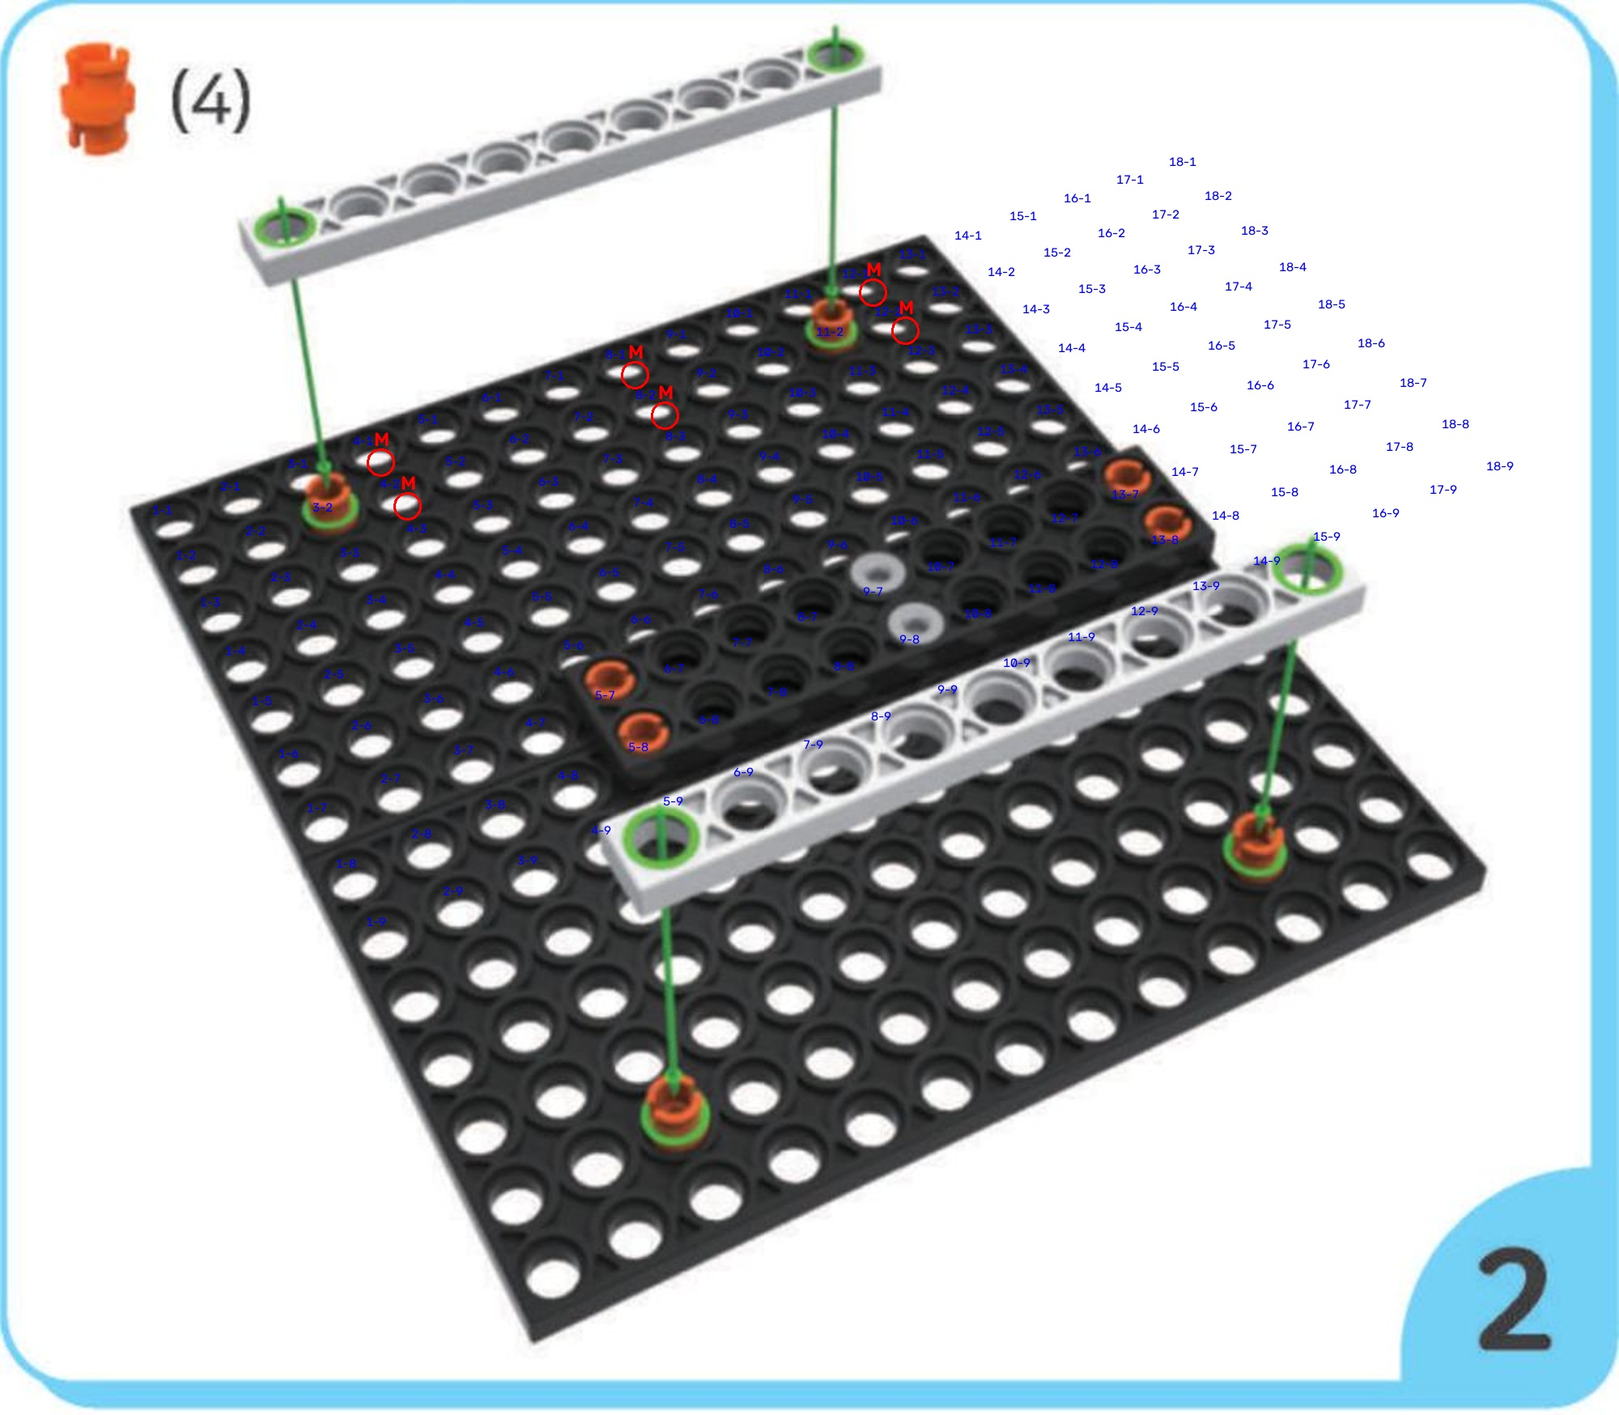
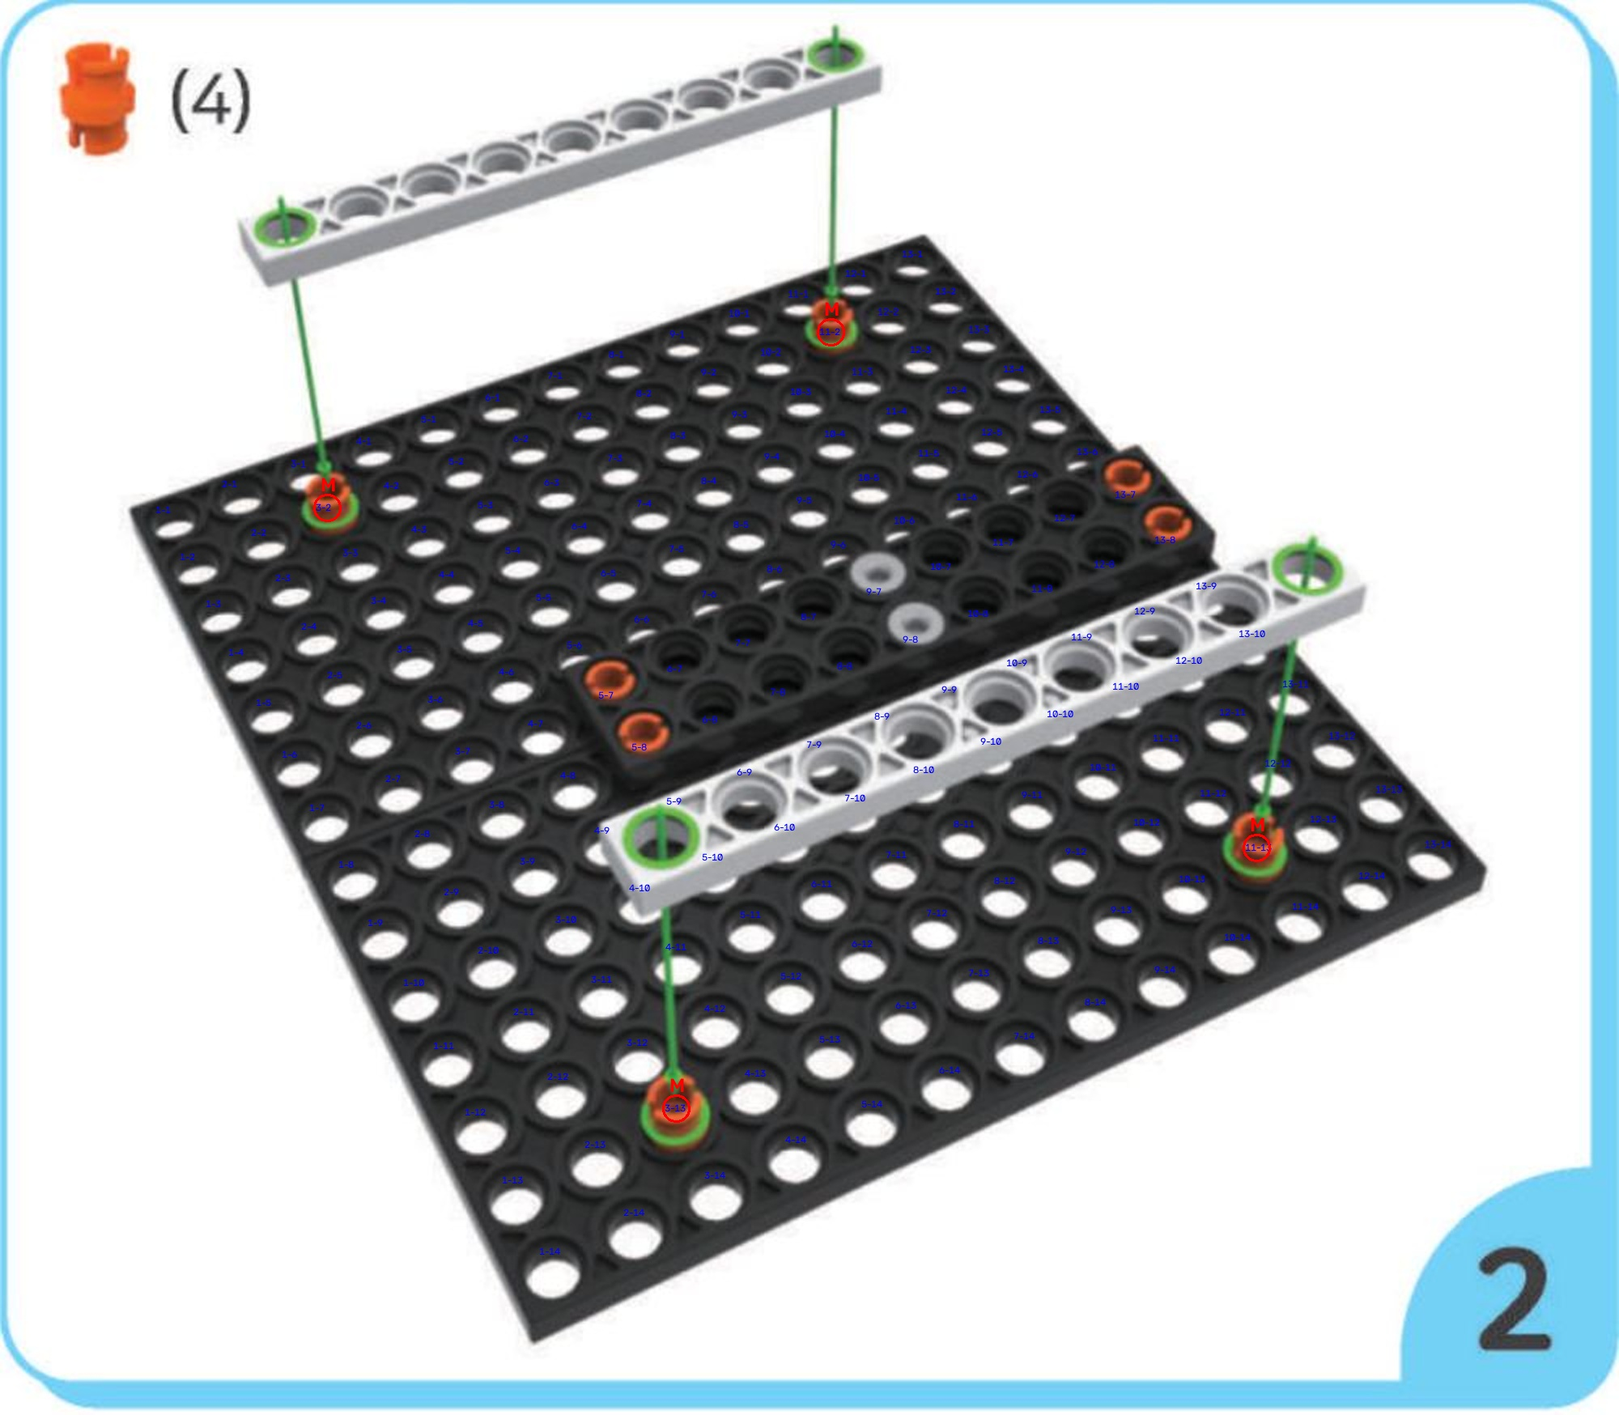
볼링머신 3~4번, 1·3번 너트·볼트 위치 수정

diff --git a/scripts/assembly-tools/bowling_entry.js b/scripts/assembly-tools/bowling_entry.js
@@ -7,7 +7,7 @@
       camera: {"target": [60, 20, 0], "radius": 380, "theta": 0.9, "phi": 1.0},
       listNote: "만드는 중 — 단계가 끝나기 전까지 LIST 개수는 안 맞는 것이 정상",
       guideMode: "mates",
-      lift: {"1": 50.0, "3": 55.0},
+      lift: {"1": 50.0, "3": 55.0, "4": 5.0, "5": 5.0, "6": 5.0, "7": 5.0, "8": 5.0, "9": 5.0, "10": 5.0, "11": 5.0, "12": 5.0, "13": 5.0, "14": 5.0, "15": 5.0, "16": 5.0, "17": 5.0, "18": 5.0, "19": 5.0, "20": 5.0, "21": 5.0, "22": 5.0, "23": 5.0, "24": 5.0, "25": 5.0, "26": 5.0, "27": 5.0, "28": 5.0, "29": 5.0, "30": 5.0, "31": 5.0, "32": 5.0, "33": 5.0, "34": 5.0, "35": 5.0, "36": 5.0, "37": 5.0},
       steps: [
         { note: "[교재 1] 713프레임 둘을 이어 붙이고 이음매 위에 29프레임을 얹어 리벳 넷·볼트 둘·너트 둘로 이어요.\n━ 작업 점검 ━\n☑ 책 그림 격자(수평선·회전·격자 점) 만듦\n☑ 읽기 표(면·링·부품) 적음\n☑ 읽기 표의 부품 = 모델의 부품 (713프레임 2, 리벳 4, 29프레임 1, 8볼트 2, 너트 2)\n☑ 카메라 방향 파악(가까운 쪽·화면 오른쪽·위가 로봇의 어느 쪽인지 읽기 표 '방향') (눈으로)\n☑ 쓴 부품 합계 ≤ 교재 LIST\n☑ 부품 방향·제자리 판정(읽기 표 '부품방향')\n☑ 리벳 결합 프레임이 딱 붙음(틈 0)\n☑ 볼트·너트 머리·몸이 프레임 면 밖으로 안 나옴\n☑ 앞·뒤 번호 그림·완성 사진(00)과 같이 읽음(읽기 표 '대조') (눈으로)\n☑ 화면 확대 확인 (비교 증거 있음) (눈으로)\n☑ 책 그림과 나란히 비교(칸 수 대조) (비교 증거 있음) (눈으로)\n☑ 카메라 책과 대조 (비교 증거 있음) (눈으로)\n☑ 카메라가 짐작(guess)이 아님 — 책 그림에서 가까운 쪽·오른쪽·위를 읽고 정한 값(camSrc eye) (비교 증거 있음) (눈으로)\n▣ 사용 부품: 713프레임 2, 29프레임 1, 리벳 4, 8볼트 2, 너트 2", cam: {"theta": -0.49, "phi": 1.03}, camSrc: "eye", slot: 1, parts: [
           { n: "713프레임", p: [-20.0, 2.5, -35.0], r: [0.0, 0.0, 0.0] },
@@ -19,8 +19,8 @@
           { n: "29프레임", p: [0.0, 7.5, 0.0], r: [0.0, 0.0, 0.0], recv: true, dir: [0.0, 1.0, 0.0], marks: [[-40.0, 9.5, -5.0], [-40.0, 9.5, 5.0], [40.0, 9.5, -5.0], [40.0, 9.5, 5.0]], hover: 50 },
           { n: "8볼트", p: [0.0, 4.9, -5.0], r: [180.0, 0.0, 0.0], dir: [0.0, -1.0, 0.0], marks: [[0.0, 0.0, -5.0]], hover: 45 },
           { n: "8볼트", p: [0.0, 4.9, 5.0], r: [180.0, 0.0, 0.0], dir: [0.0, -1.0, 0.0], marks: [[0.0, 0.0, 5.0]], hover: 45 },
-          { n: "너트", p: [0.0, 8.0, -5.0], r: [180.0, 0.0, 0.0], dir: [0.0, 1.0, 0.0], marks: [[0.0, 10.0, -5.0]], hover: 40 },
-          { n: "너트", p: [0.0, 8.0, 5.0], r: [180.0, 0.0, 0.0], dir: [0.0, 1.0, 0.0], marks: [[0.0, 10.0, 5.0]], hover: 40 },
+          { n: "너트", p: [0.0, 8.0, -5.0], r: [180.0, 0.0, 0.0], dir: [0.0, 1.0, 0.0], marks: [[0.0, 10.0, -5.0]], hover: 90 },
+          { n: "너트", p: [0.0, 8.0, 5.0], r: [180.0, 0.0, 0.0], dir: [0.0, 1.0, 0.0], marks: [[0.0, 10.0, 5.0]], hover: 90 },
         ] },
         { note: "[교재 2] 바닥 앞·뒤 가장자리 쪽(줄2·줄13)에 흰 19프레임 막대 둘을 리벳 둘씩(칸3·11)으로 이어요.\n▣ 사용 부품: 19프레임 2, 리벳 4", cam: {"theta": -0.47, "phi": 0.73}, camSrc: "eye", slot: 1, parts: [
           { n: "리벳", p: [-60.0, 5.0, -55.0], r: [0.0, 0.0, 0.0], dir: [0.0, 1.0, 0.0], marks: [[-60.0, 5.0, -55.0]], hover: 25 },
@@ -31,15 +31,25 @@
           { n: "19프레임", p: [-20.0, 7.5, 55.0], r: [0.0, 0.0, 0.0], recv: true, dir: [0.0, 1.0, 0.0], marks: [[-60.0, 9.5, 55.0], [20.0, 9.5, 55.0]], hover: 50 },
         ] },
         { note: "[교재 3] 1~2번 바닥을 뒤집어(가로축) 흰 59프레임을 아래 면 왼쪽 끝에 리벳 둘·볼트 둘·너트 둘로 붙여요.\n▣ 사용 부품: 59프레임 1, 리벳 2, 8볼트 2, 너트 2", cam: {"theta": -0.72, "phi": 1.13}, camSrc: "eye", slot: 1, moveMade: {"1:0": {"p": [-20.0, 2.5, 35.0], "r": [180.0, 0.0, 0.0], "dir": [0.0, 1.0, 0.0], "hover": 50, "marks": [[-80.0, 0.0, 15.0], [-70.0, 0.0, 15.0]]}, "1:1": {"p": [-20.0, 2.5, -35.0], "r": [180.0, 0.0, 0.0], "dir": [0.0, 1.0, 0.0], "hover": 50, "marks": [[-80.0, 0.0, -25.0], [-70.0, 0.0, -25.0]]}, "1:2": {"p": [-40.0, 0.0, 5.0], "r": [180.0, 0.0, 0.0], "dir": [0.0, 1.0, 0.0], "hover": 50}, "1:3": {"p": [40.0, 0.0, 5.0], "r": [180.0, 0.0, 0.0], "dir": [0.0, 1.0, 0.0], "hover": 50}, "1:4": {"p": [-40.0, 0.0, -5.0], "r": [180.0, 0.0, 0.0], "dir": [0.0, 1.0, 0.0], "hover": 50}, "1:5": {"p": [40.0, 0.0, -5.0], "r": [180.0, 0.0, 0.0], "dir": [0.0, 1.0, 0.0], "hover": 50}, "1:6": {"p": [0.0, -2.5, 0.0], "r": [180.0, 0.0, 0.0], "dir": [0.0, 1.0, 0.0], "hover": 50}, "1:7": {"p": [0.0, 0.1, 5.0], "r": [0.0, 0.0, 0.0], "dir": [0.0, 1.0, 0.0], "hover": 50}, "1:8": {"p": [0.0, 0.1, -5.0], "r": [0.0, 0.0, 0.0], "dir": [0.0, 1.0, 0.0], "hover": 50}, "1:9": {"p": [0.0, -3.0, 5.0], "r": [0.0, 0.0, 0.0], "dir": [0.0, 1.0, 0.0], "hover": 50}, "1:10": {"p": [0.0, -3.0, -5.0], "r": [0.0, 0.0, 0.0], "dir": [0.0, 1.0, 0.0], "hover": 50}, "2:0": {"p": [-60.0, 0.0, 55.0], "r": [180.0, 0.0, 0.0], "dir": [0.0, 1.0, 0.0], "hover": 50}, "2:1": {"p": [20.0, 0.0, 55.0], "r": [180.0, 0.0, 0.0], "dir": [0.0, 1.0, 0.0], "hover": 50}, "2:2": {"p": [-20.0, -2.5, 55.0], "r": [180.0, 0.0, 0.0], "dir": [0.0, 1.0, 0.0], "hover": 50}, "2:3": {"p": [-60.0, 0.0, -55.0], "r": [180.0, 0.0, 0.0], "dir": [0.0, 1.0, 0.0], "hover": 50}, "2:4": {"p": [20.0, 0.0, -55.0], "r": [180.0, 0.0, 0.0], "dir": [0.0, 1.0, 0.0], "hover": 50}, "2:5": {"p": [-20.0, -2.5, -55.0], "r": [180.0, 0.0, 0.0], "dir": [0.0, 1.0, 0.0], "hover": 50}}, parts: [
-          { n: "59프레임", p: [-110.0, -2.5, 75.0], r: [0.0, 0.0, 0.0] },
-          { n: "리벳", p: [-80.0, 0.0, 55.0], r: [0.0, 0.0, 0.0], dir: [0.0, 1.0, 0.0], marks: [[-80.0, 0.0, 55.0]], hover: 25 },
-          { n: "리벳", p: [-80.0, 0.0, 95.0], r: [0.0, 0.0, 0.0], dir: [0.0, 1.0, 0.0], marks: [[-80.0, 0.0, 95.0]], hover: 25 },
-          { n: "8볼트", p: [-70.0, 0.1, -25.0], r: [0.0, 0.0, 0.0], dir: [0.0, 1.0, 0.0], marks: [[-70.0, 5.0, -25.0]], hover: 45 },
-          { n: "8볼트", p: [-70.0, 0.1, 15.0], r: [0.0, 0.0, 0.0], dir: [0.0, 1.0, 0.0], marks: [[-70.0, 5.0, 15.0]], hover: 45 },
-          { n: "너트", p: [-70.0, -3.0, 55.0], r: [0.0, 0.0, 0.0], dir: [0.0, -1.0, 0.0], marks: [[-70.0, -5.0, 55.0]], hover: 40 },
-          { n: "너트", p: [-70.0, -3.0, 95.0], r: [0.0, 0.0, 0.0], dir: [0.0, -1.0, 0.0], marks: [[-70.0, -5.0, 95.0]], hover: 40 },
+          { n: "59프레임", p: [-110.0, -2.5, -5.0], r: [0.0, 0.0, 0.0] },
+          { n: "리벳", p: [-80.0, 0.0, -25.0], r: [0.0, 0.0, 0.0], dir: [0.0, 1.0, 0.0], marks: [[-80.0, 0.0, -25.0]], hover: 25 },
+          { n: "리벳", p: [-80.0, 0.0, 15.0], r: [0.0, 0.0, 0.0], dir: [0.0, 1.0, 0.0], marks: [[-80.0, 0.0, 15.0]], hover: 25 },
+          { n: "8볼트", p: [-70.0, 0.1, -25.0], r: [0.0, 0.0, 0.0], dir: [0.0, 1.0, 0.0], marks: [[-70.0, 5.0, -25.0]], hover: 100 },
+          { n: "8볼트", p: [-70.0, 0.1, 15.0], r: [0.0, 0.0, 0.0], dir: [0.0, 1.0, 0.0], marks: [[-70.0, 5.0, 15.0]], hover: 100 },
+          { n: "너트", p: [-70.0, -3.0, -25.0], r: [0.0, 0.0, 0.0], dir: [0.0, -1.0, 0.0], marks: [[-70.0, -5.0, -25.0]], hover: 40 },
+          { n: "너트", p: [-70.0, -3.0, 15.0], r: [0.0, 0.0, 0.0], dir: [0.0, -1.0, 0.0], marks: [[-70.0, -5.0, 15.0]], hover: 40 },
         ] },
-        { note: "[교재 4] (작성 전) 교재 101쪽 — 번호만 등록한 뼈대. 번호 작업 때 채운다.\n▣ 사용 부품: 39프레임 2, 3단블록 6, 2단블록 2", cam: {"theta": -0.79, "phi": 0.95}, camSrc: "guess", noPart: true, slot: 2, history: "📦 713프레임 세트(1~3번)를 창고 1에 두고, 창고 2에서 검은 판 둘+블록 세트(4~5번)를 새로 시작", parts: [
+        { note: "[교재 4] 검은 39프레임 둘에 블록 넷씩을 돌기가 아래로 가게 꽂아요(3단블록 3·2단블록 1).\n▣ 사용 부품: 39프레임 2, 3단블록 6, 2단블록 2", cam: {"theta": -0.58, "phi": 0.83}, camSrc: "eye", slot: 2, history: "📦 713프레임 세트(1~3번)를 창고 1에 두고, 창고 2에서 검은 판 둘+블록 세트(4~5번)를 새로 시작", hideMade: {"1": "바닥(1~3번)", "2": "바닥(1~3번)", "3": "바닥(1~3번)"}, parts: [
+          { n: "39프레임", p: [0.0, 2.5, -40.0], r: [0.0, 0.0, 0.0] },
+          { n: "3단블록", p: [-40.0, 10.0, -40.0], r: [90.0, -90.0, 0.0], dir: [0.0, 1.0, 0.0], marks: [[-40.0, 5.0, -50.0], [-40.0, 5.0, -40.0], [-40.0, 5.0, -30.0]], hover: 44 },
+          { n: "3단블록", p: [-20.0, 10.0, -40.0], r: [90.0, -90.0, 0.0], dir: [0.0, 1.0, 0.0], marks: [[-20.0, 5.0, -50.0], [-20.0, 5.0, -40.0], [-20.0, 5.0, -30.0]], hover: 38 },
+          { n: "2단블록", p: [34.4, 10.0, -50.0], r: [90.0, 0.0, 0.0], dir: [0.0, 1.0, 0.0], marks: [[30.0, 5.0, -50.0], [40.0, 5.0, -50.0]], hover: 44 },
+          { n: "3단블록", p: [40.0, 20.0, -30.0], r: [-90.0, 0.0, 90.0], dir: [0.0, 1.0, 0.0], marks: [[40.0, 5.0, -30.0]], hover: 32 },
+          { n: "39프레임", p: [0.0, 2.5, 40.0], r: [0.0, 0.0, 0.0] },
+          { n: "3단블록", p: [-40.0, 10.0, 40.0], r: [90.0, -90.0, 0.0], dir: [0.0, 1.0, 0.0], marks: [[-40.0, 5.0, 30.0], [-40.0, 5.0, 40.0], [-40.0, 5.0, 50.0]], hover: 44 },
+          { n: "3단블록", p: [-20.0, 10.0, 40.0], r: [90.0, -90.0, 0.0], dir: [0.0, 1.0, 0.0], marks: [[-20.0, 5.0, 30.0], [-20.0, 5.0, 40.0], [-20.0, 5.0, 50.0]], hover: 38 },
+          { n: "2단블록", p: [34.4, 10.0, 30.0], r: [90.0, 0.0, 0.0], dir: [0.0, 1.0, 0.0], marks: [[30.0, 5.0, 30.0], [40.0, 5.0, 30.0]], hover: 44 },
+          { n: "3단블록", p: [40.0, 20.0, 50.0], r: [-90.0, 0.0, 90.0], dir: [0.0, 1.0, 0.0], marks: [[40.0, 5.0, 50.0]], hover: 32 },
         ] },
         { note: "[교재 5] (작성 전) 교재 101쪽 — 번호만 등록한 뼈대. 번호 작업 때 채운다.\n▣ 사용 부품: 39프레임 2", cam: {"theta": -0.79, "phi": 0.95}, camSrc: "guess", noPart: true, slot: 2, parts: [
         ] },

diff --git a/public/design-assemblies.js b/public/design-assemblies.js
@@ -4121,7 +4121,7 @@ window.IVS_ASSEMBLIES = [
       camera: {"target": [60, 20, 0], "radius": 380, "theta": 0.9, "phi": 1.0},
       listNote: "만드는 중 — 단계가 끝나기 전까지 LIST 개수는 안 맞는 것이 정상",
       guideMode: "mates",
-      lift: {"1": 50.0},
+      lift: {"1": 50.0, "3": 55.0, "4": 5.0, "5": 5.0, "6": 5.0, "7": 5.0, "8": 5.0, "9": 5.0, "10": 5.0, "11": 5.0, "12": 5.0, "13": 5.0, "14": 5.0, "15": 5.0, "16": 5.0, "17": 5.0, "18": 5.0, "19": 5.0, "20": 5.0, "21": 5.0, "22": 5.0, "23": 5.0, "24": 5.0, "25": 5.0, "26": 5.0, "27": 5.0, "28": 5.0, "29": 5.0, "30": 5.0, "31": 5.0, "32": 5.0, "33": 5.0, "34": 5.0, "35": 5.0, "36": 5.0, "37": 5.0},
       steps: [
         { note: "[교재 1] 713프레임 둘을 이어 붙이고 이음매 위에 29프레임을 얹어 리벳 넷·볼트 둘·너트 둘로 이어요.\n━ 작업 점검 ━\n☑ 책 그림 격자(수평선·회전·격자 점) 만듦\n☑ 읽기 표(면·링·부품) 적음\n☑ 읽기 표의 부품 = 모델의 부품 (713프레임 2, 리벳 4, 29프레임 1, 8볼트 2, 너트 2)\n☑ 카메라 방향 파악(가까운 쪽·화면 오른쪽·위가 로봇의 어느 쪽인지 읽기 표 '방향') (눈으로)\n☑ 쓴 부품 합계 ≤ 교재 LIST\n☑ 부품 방향·제자리 판정(읽기 표 '부품방향')\n☑ 리벳 결합 프레임이 딱 붙음(틈 0)\n☑ 볼트·너트 머리·몸이 프레임 면 밖으로 안 나옴\n☑ 앞·뒤 번호 그림·완성 사진(00)과 같이 읽음(읽기 표 '대조') (눈으로)\n☑ 화면 확대 확인 (비교 증거 있음) (눈으로)\n☑ 책 그림과 나란히 비교(칸 수 대조) (비교 증거 있음) (눈으로)\n☑ 카메라 책과 대조 (비교 증거 있음) (눈으로)\n☑ 카메라가 짐작(guess)이 아님 — 책 그림에서 가까운 쪽·오른쪽·위를 읽고 정한 값(camSrc eye) (비교 증거 있음) (눈으로)\n▣ 사용 부품: 713프레임 2, 29프레임 1, 리벳 4, 8볼트 2, 너트 2", cam: {"theta": -0.49, "phi": 1.03}, camSrc: "eye", slot: 1, parts: [
           { n: "713프레임", p: [-20.0, 2.5, -35.0], r: [0.0, 0.0, 0.0] },
@@ -4133,8 +4133,8 @@ window.IVS_ASSEMBLIES = [
           { n: "29프레임", p: [0.0, 7.5, 0.0], r: [0.0, 0.0, 0.0], recv: true, dir: [0.0, 1.0, 0.0], marks: [[-40.0, 9.5, -5.0], [-40.0, 9.5, 5.0], [40.0, 9.5, -5.0], [40.0, 9.5, 5.0]], hover: 50 },
           { n: "8볼트", p: [0.0, 4.9, -5.0], r: [180.0, 0.0, 0.0], dir: [0.0, -1.0, 0.0], marks: [[0.0, 0.0, -5.0]], hover: 45 },
           { n: "8볼트", p: [0.0, 4.9, 5.0], r: [180.0, 0.0, 0.0], dir: [0.0, -1.0, 0.0], marks: [[0.0, 0.0, 5.0]], hover: 45 },
-          { n: "너트", p: [0.0, 8.0, -5.0], r: [180.0, 0.0, 0.0], dir: [0.0, 1.0, 0.0], marks: [[0.0, 10.0, -5.0]], hover: 40 },
-          { n: "너트", p: [0.0, 8.0, 5.0], r: [180.0, 0.0, 0.0], dir: [0.0, 1.0, 0.0], marks: [[0.0, 10.0, 5.0]], hover: 40 },
+          { n: "너트", p: [0.0, 8.0, -5.0], r: [180.0, 0.0, 0.0], dir: [0.0, 1.0, 0.0], marks: [[0.0, 10.0, -5.0]], hover: 90 },
+          { n: "너트", p: [0.0, 8.0, 5.0], r: [180.0, 0.0, 0.0], dir: [0.0, 1.0, 0.0], marks: [[0.0, 10.0, 5.0]], hover: 90 },
         ] },
         { note: "[교재 2] 바닥 앞·뒤 가장자리 쪽(줄2·줄13)에 흰 19프레임 막대 둘을 리벳 둘씩(칸3·11)으로 이어요.\n▣ 사용 부품: 19프레임 2, 리벳 4", cam: {"theta": -0.47, "phi": 0.73}, camSrc: "eye", slot: 1, parts: [
           { n: "리벳", p: [-60.0, 5.0, -55.0], r: [0.0, 0.0, 0.0], dir: [0.0, 1.0, 0.0], marks: [[-60.0, 5.0, -55.0]], hover: 25 },
@@ -4144,9 +4144,26 @@ window.IVS_ASSEMBLIES = [
           { n: "리벳", p: [20.0, 5.0, 55.0], r: [0.0, 0.0, 0.0], dir: [0.0, 1.0, 0.0], marks: [[20.0, 5.0, 55.0]], hover: 25 },
           { n: "19프레임", p: [-20.0, 7.5, 55.0], r: [0.0, 0.0, 0.0], recv: true, dir: [0.0, 1.0, 0.0], marks: [[-60.0, 9.5, 55.0], [20.0, 9.5, 55.0]], hover: 50 },
         ] },
-        { note: "[교재 3] (작성 전) 교재 101쪽 — 번호만 등록한 뼈대. 번호 작업 때 채운다.\n▣ 사용 부품: 37프레임 1, 리벳 2, 8볼트 2, 너트 2", cam: {"theta": -0.79, "phi": 0.95}, camSrc: "guess", noPart: true, slot: 1, parts: [
+        { note: "[교재 3] 1~2번 바닥을 뒤집어(가로축) 흰 59프레임을 아래 면 왼쪽 끝에 리벳 둘·볼트 둘·너트 둘로 붙여요.\n▣ 사용 부품: 59프레임 1, 리벳 2, 8볼트 2, 너트 2", cam: {"theta": -0.72, "phi": 1.13}, camSrc: "eye", slot: 1, moveMade: {"1:0": {"p": [-20.0, 2.5, 35.0], "r": [180.0, 0.0, 0.0], "dir": [0.0, 1.0, 0.0], "hover": 50, "marks": [[-80.0, 0.0, 15.0], [-70.0, 0.0, 15.0]]}, "1:1": {"p": [-20.0, 2.5, -35.0], "r": [180.0, 0.0, 0.0], "dir": [0.0, 1.0, 0.0], "hover": 50, "marks": [[-80.0, 0.0, -25.0], [-70.0, 0.0, -25.0]]}, "1:2": {"p": [-40.0, 0.0, 5.0], "r": [180.0, 0.0, 0.0], "dir": [0.0, 1.0, 0.0], "hover": 50}, "1:3": {"p": [40.0, 0.0, 5.0], "r": [180.0, 0.0, 0.0], "dir": [0.0, 1.0, 0.0], "hover": 50}, "1:4": {"p": [-40.0, 0.0, -5.0], "r": [180.0, 0.0, 0.0], "dir": [0.0, 1.0, 0.0], "hover": 50}, "1:5": {"p": [40.0, 0.0, -5.0], "r": [180.0, 0.0, 0.0], "dir": [0.0, 1.0, 0.0], "hover": 50}, "1:6": {"p": [0.0, -2.5, 0.0], "r": [180.0, 0.0, 0.0], "dir": [0.0, 1.0, 0.0], "hover": 50}, "1:7": {"p": [0.0, 0.1, 5.0], "r": [0.0, 0.0, 0.0], "dir": [0.0, 1.0, 0.0], "hover": 50}, "1:8": {"p": [0.0, 0.1, -5.0], "r": [0.0, 0.0, 0.0], "dir": [0.0, 1.0, 0.0], "hover": 50}, "1:9": {"p": [0.0, -3.0, 5.0], "r": [0.0, 0.0, 0.0], "dir": [0.0, 1.0, 0.0], "hover": 50}, "1:10": {"p": [0.0, -3.0, -5.0], "r": [0.0, 0.0, 0.0], "dir": [0.0, 1.0, 0.0], "hover": 50}, "2:0": {"p": [-60.0, 0.0, 55.0], "r": [180.0, 0.0, 0.0], "dir": [0.0, 1.0, 0.0], "hover": 50}, "2:1": {"p": [20.0, 0.0, 55.0], "r": [180.0, 0.0, 0.0], "dir": [0.0, 1.0, 0.0], "hover": 50}, "2:2": {"p": [-20.0, -2.5, 55.0], "r": [180.0, 0.0, 0.0], "dir": [0.0, 1.0, 0.0], "hover": 50}, "2:3": {"p": [-60.0, 0.0, -55.0], "r": [180.0, 0.0, 0.0], "dir": [0.0, 1.0, 0.0], "hover": 50}, "2:4": {"p": [20.0, 0.0, -55.0], "r": [180.0, 0.0, 0.0], "dir": [0.0, 1.0, 0.0], "hover": 50}, "2:5": {"p": [-20.0, -2.5, -55.0], "r": [180.0, 0.0, 0.0], "dir": [0.0, 1.0, 0.0], "hover": 50}}, parts: [
+          { n: "59프레임", p: [-110.0, -2.5, -5.0], r: [0.0, 0.0, 0.0] },
+          { n: "리벳", p: [-80.0, 0.0, -25.0], r: [0.0, 0.0, 0.0], dir: [0.0, 1.0, 0.0], marks: [[-80.0, 0.0, -25.0]], hover: 25 },
+          { n: "리벳", p: [-80.0, 0.0, 15.0], r: [0.0, 0.0, 0.0], dir: [0.0, 1.0, 0.0], marks: [[-80.0, 0.0, 15.0]], hover: 25 },
+          { n: "8볼트", p: [-70.0, 0.1, -25.0], r: [0.0, 0.0, 0.0], dir: [0.0, 1.0, 0.0], marks: [[-70.0, 5.0, -25.0]], hover: 100 },
+          { n: "8볼트", p: [-70.0, 0.1, 15.0], r: [0.0, 0.0, 0.0], dir: [0.0, 1.0, 0.0], marks: [[-70.0, 5.0, 15.0]], hover: 100 },
+          { n: "너트", p: [-70.0, -3.0, -25.0], r: [0.0, 0.0, 0.0], dir: [0.0, -1.0, 0.0], marks: [[-70.0, -5.0, -25.0]], hover: 40 },
+          { n: "너트", p: [-70.0, -3.0, 15.0], r: [0.0, 0.0, 0.0], dir: [0.0, -1.0, 0.0], marks: [[-70.0, -5.0, 15.0]], hover: 40 },
         ] },
-        { note: "[교재 4] (작성 전) 교재 101쪽 — 번호만 등록한 뼈대. 번호 작업 때 채운다.\n▣ 사용 부품: 39프레임 2, 3단블록 6, 2단블록 2", cam: {"theta": -0.79, "phi": 0.95}, camSrc: "guess", noPart: true, slot: 2, history: "📦 713프레임 세트(1~3번)를 창고 1에 두고, 창고 2에서 검은 판 둘+블록 세트(4~5번)를 새로 시작", parts: [
+        { note: "[교재 4] 검은 39프레임 둘에 블록 넷씩을 돌기가 아래로 가게 꽂아요(3단블록 3·2단블록 1).\n▣ 사용 부품: 39프레임 2, 3단블록 6, 2단블록 2", cam: {"theta": -0.58, "phi": 0.83}, camSrc: "eye", slot: 2, history: "📦 713프레임 세트(1~3번)를 창고 1에 두고, 창고 2에서 검은 판 둘+블록 세트(4~5번)를 새로 시작", hideMade: {"1": "바닥(1~3번)", "2": "바닥(1~3번)", "3": "바닥(1~3번)"}, parts: [
+          { n: "39프레임", p: [0.0, 2.5, -40.0], r: [0.0, 0.0, 0.0] },
+          { n: "3단블록", p: [-40.0, 10.0, -40.0], r: [90.0, -90.0, 0.0], dir: [0.0, 1.0, 0.0], marks: [[-40.0, 5.0, -50.0], [-40.0, 5.0, -40.0], [-40.0, 5.0, -30.0]], hover: 44 },
+          { n: "3단블록", p: [-20.0, 10.0, -40.0], r: [90.0, -90.0, 0.0], dir: [0.0, 1.0, 0.0], marks: [[-20.0, 5.0, -50.0], [-20.0, 5.0, -40.0], [-20.0, 5.0, -30.0]], hover: 38 },
+          { n: "2단블록", p: [34.4, 10.0, -50.0], r: [90.0, 0.0, 0.0], dir: [0.0, 1.0, 0.0], marks: [[30.0, 5.0, -50.0], [40.0, 5.0, -50.0]], hover: 44 },
+          { n: "3단블록", p: [40.0, 20.0, -30.0], r: [-90.0, 0.0, 90.0], dir: [0.0, 1.0, 0.0], marks: [[40.0, 5.0, -30.0]], hover: 32 },
+          { n: "39프레임", p: [0.0, 2.5, 40.0], r: [0.0, 0.0, 0.0] },
+          { n: "3단블록", p: [-40.0, 10.0, 40.0], r: [90.0, -90.0, 0.0], dir: [0.0, 1.0, 0.0], marks: [[-40.0, 5.0, 30.0], [-40.0, 5.0, 40.0], [-40.0, 5.0, 50.0]], hover: 44 },
+          { n: "3단블록", p: [-20.0, 10.0, 40.0], r: [90.0, -90.0, 0.0], dir: [0.0, 1.0, 0.0], marks: [[-20.0, 5.0, 30.0], [-20.0, 5.0, 40.0], [-20.0, 5.0, 50.0]], hover: 38 },
+          { n: "2단블록", p: [34.4, 10.0, 30.0], r: [90.0, 0.0, 0.0], dir: [0.0, 1.0, 0.0], marks: [[30.0, 5.0, 30.0], [40.0, 5.0, 30.0]], hover: 44 },
+          { n: "3단블록", p: [40.0, 20.0, 50.0], r: [-90.0, 0.0, 90.0], dir: [0.0, 1.0, 0.0], marks: [[40.0, 5.0, 50.0]], hover: 32 },
         ] },
         { note: "[교재 5] (작성 전) 교재 101쪽 — 번호만 등록한 뼈대. 번호 작업 때 채운다.\n▣ 사용 부품: 39프레임 2", cam: {"theta": -0.79, "phi": 0.95}, camSrc: "guess", noPart: true, slot: 2, parts: [
         ] },
